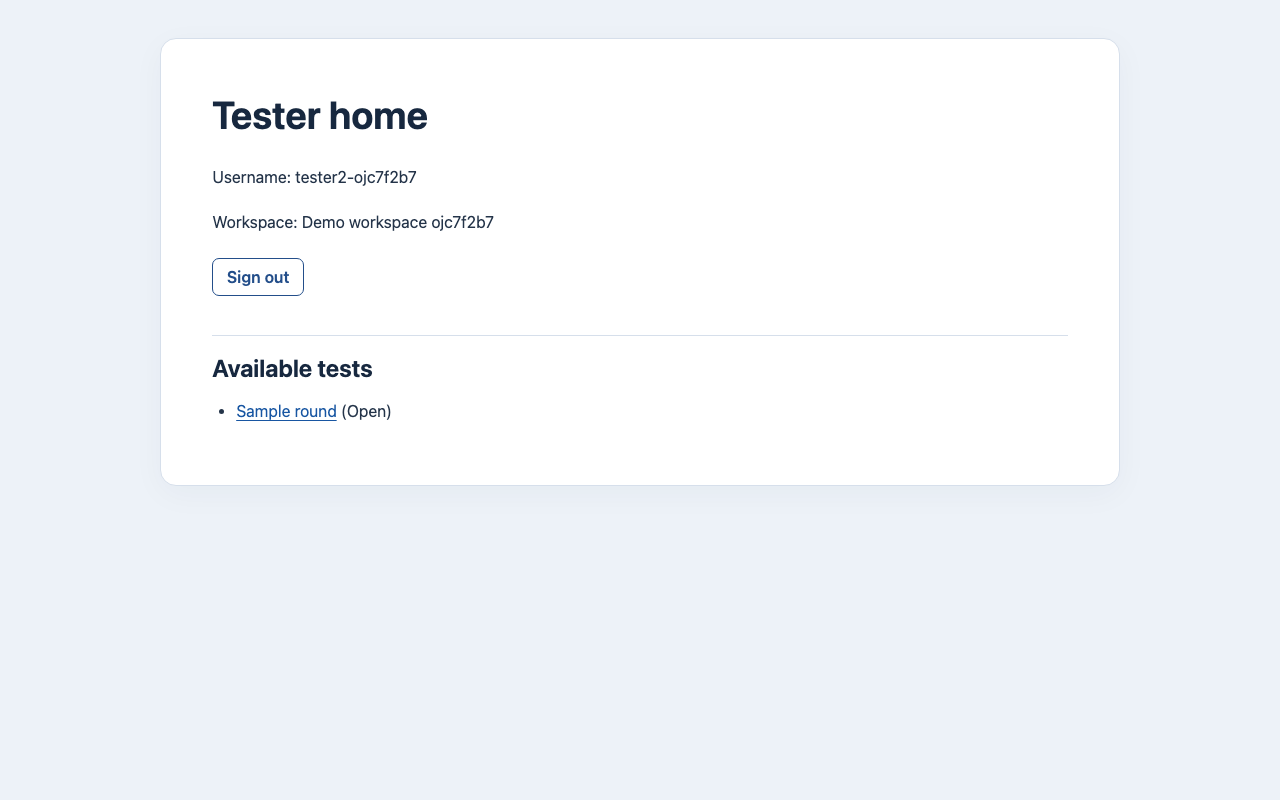
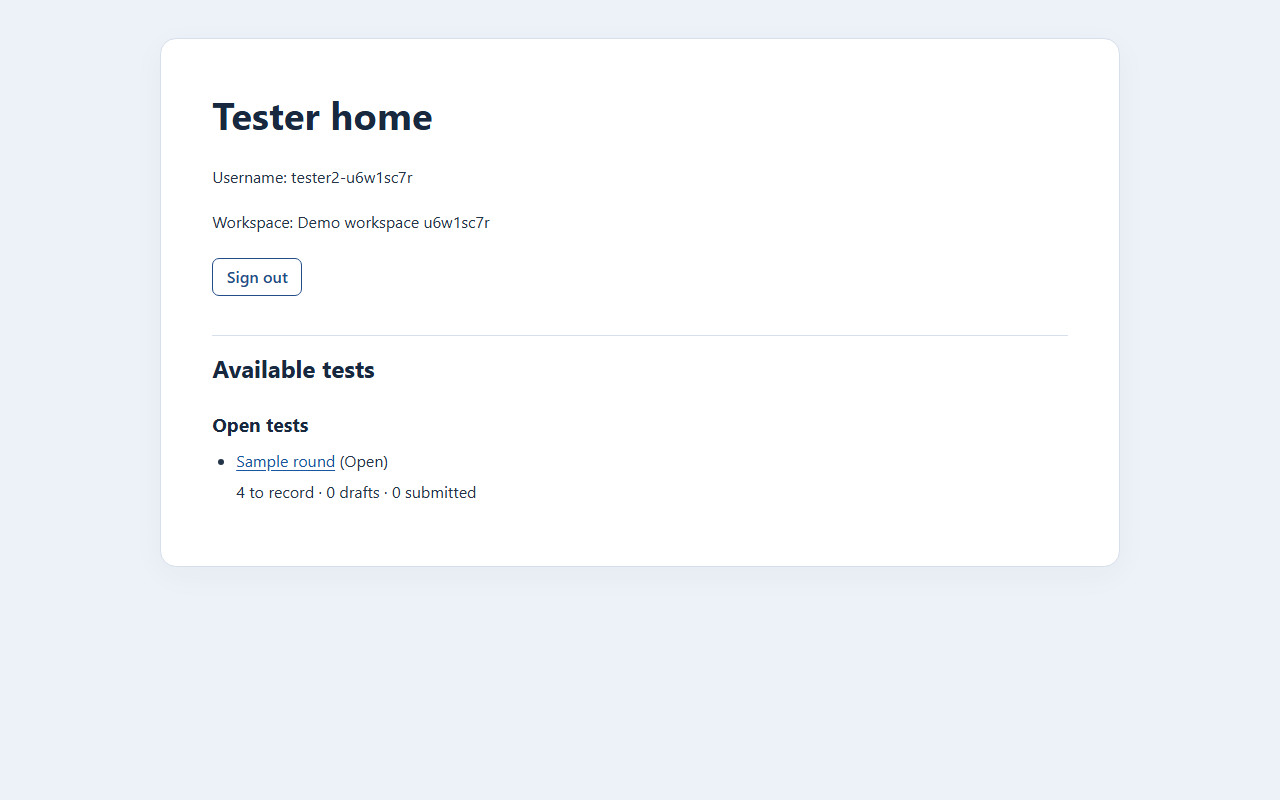
docs: Describe role-home overviews in the User Guide (#182)
Updates the Coordinator home and "View available tests" sections and
refreshes the three affected screenshots.

Agent: builder

diff --git a/docs/UserGuide.md b/docs/UserGuide.md
@@ -94,9 +94,11 @@ Choose a case title to expand or collapse its details. In **My results**, choose
 
 Only a Test Coordinator can prepare, publish, review, retest and close test rounds. A new round is in the **Draft** state; [publishing](#publish-a-round) it makes it **Open**, and [closing](#close-a-round) it makes it **Closed**. Beta Testers [view available tests](#view-available-tests) from their own home page.
 
-**Coordinator home** has a **Rounds** heading with a **New round** link. Below it, each round in your workspace is listed, newest first, as a link to its round page followed by its state, such as "(Draft)". A new demo workspace starts with its [sample round](#create-a-demo-workspace), so its list is not empty; "No rounds yet." appears only for a workspace with no rounds.
+**Coordinator home** has a **Rounds** heading with a **New round** link. Under the link, a summary line counts your workspace's rounds in each state and its Beta Testers, for example "Draft: 1 · Open: 1 · Closed: 2 · Beta Testers: 2". Below it, each round in your workspace is listed, newest first, as a link to its round page followed by its state, such as "(Draft)". A new demo workspace starts with its [sample round](#create-a-demo-workspace), so its list is not empty; "No rounds yet." appears only for a workspace with no rounds.
 
-![Coordinator home showing the username, workspace, Sign out, Add Beta Tester, Beta Tester passwords, and the Rounds section with New round and Sample round (Draft)](images/coordinator-home.png)
+Under its entry, a Draft round shows its number of test cases, such as "4 test cases" or "1 test case". An Open round shows how many of its cases have at least one submitted result for their current build, such as "3 of 5 test cases have a submitted result for their current build.", followed by a **Review results** link to its [results page](#review-results). Saved drafts are not counted. After a [retest](#request-a-retest), a retested case counts again only once a result is submitted for its new build. A Closed round shows only its title and "(Closed)".
+
+![Coordinator home showing the username, workspace, Sign out, Add Beta Tester, Beta Tester passwords, and the Rounds section with New round, the summary Draft: 1 · Open: 0 · Closed: 0 · Beta Testers: 2, and Sample round (Draft) with 4 test cases](images/coordinator-home.png)
 
 If a round action shows an error, return to the round page and check its current details before trying again.
 
@@ -246,16 +248,16 @@ A Closed round's page still shows its criteria, its cases with their linked crit
 
 ## View available tests
 
-1. Sign in as a **Beta Tester**. On **Tester home**, **Available tests** lists your workspace's Open and Closed rounds, newest first. Each title is a link followed by "(Open)" or "(Closed)". If there are none, it says "No tests available."
-2. Choose a round title. The page shows "State: Open" or "State: Closed" and **Test cases**. Each case's summary shows its title and **Current build**; expand it for **Steps**, **Expected result** and **Linked acceptance criteria**.
+1. Sign in as a **Beta Tester**. On **Tester home**, **Available tests** lists your workspace's Open rounds under **Open tests**, then its Closed rounds under **Closed tests**, each newest first; a group with no rounds has no heading. Each title is a link followed by "(Open)" or "(Closed)". Under each Open round, a line counts its test cases by your own result for each case's current build, such as "2 to record · 1 draft · 2 submitted". If there are no rounds, it says "No tests available."
+2. Choose a round title. The page shows "State: Open" or "State: Closed" and **Test cases**. Each case's summary shows its title and **Current build**; in an Open round it also shows "Your result: Not recorded", "Your result: Draft" or "Your result: Submitted". Expand it for **Steps**, **Expected result** and **Linked acceptance criteria**.
 3. Test the software outside Relay using those instructions and the named build. If the coordinator requests a retest, reload the page: only the selected cases change to the new **Current build**; other cases keep their previous build.
 4. Choose **Tester home** to return to the list, or return there to **Sign out**.
 
-![Tester home showing the username, workspace, Sign out and Sample round (Open) under Available tests](images/tester-home.png)
+![Tester home showing the username, workspace, Sign out and, under Available tests and Open tests, Sample round (Open) with 4 to record · 0 drafts · 0 submitted](images/tester-home.png)
 
-![The tester's Sample round page showing State: Open, My results, and the first test case expanded with its steps, expected result, linked criterion and Record result](images/tester-round.png)
+![The tester's Sample round page showing State: Open, My results, and four test cases each with Current build 1.4.0-beta and Your result: Not recorded, the first expanded with its steps, expected result, linked criterion and Record result](images/tester-round.png)
 
-Beta Testers in the same workspace see the same rounds. Draft rounds stay hidden. Each expanded case in an Open round shows **Record result** if you have no result for its current build, **Continue draft** for your saved draft, or **View result** for your submitted result. These actions reflect your own results. A Closed round remains available as read-only reference; after the coordinator closes it, reload to see "State: Closed" and "(Closed)" in the list, with the result-entry links removed.
+Beta Testers in the same workspace see the same rounds. Draft rounds stay hidden. Each expanded case in an Open round shows **Record result** if you have no result for its current build, **Continue draft** for your saved draft, or **View result** for your submitted result; these match "Not recorded", "Draft" and "Submitted" in the case summary and the counts on **Tester home**. These actions, statuses and counts reflect only your own results. After a retest, a retested case shows "Your result: Not recorded" until you record a result for its new build. A Closed round remains available as read-only reference; after the coordinator closes it, reload to see "State: Closed" and "(Closed)" under **Closed tests**, with the counts, the "Your result" statuses and the result-entry links removed.
 
 If the tests cannot load, try again later; see [Error pages](#error-pages). Opening a Draft, missing or another workspace's round shows "Page not found."
 
